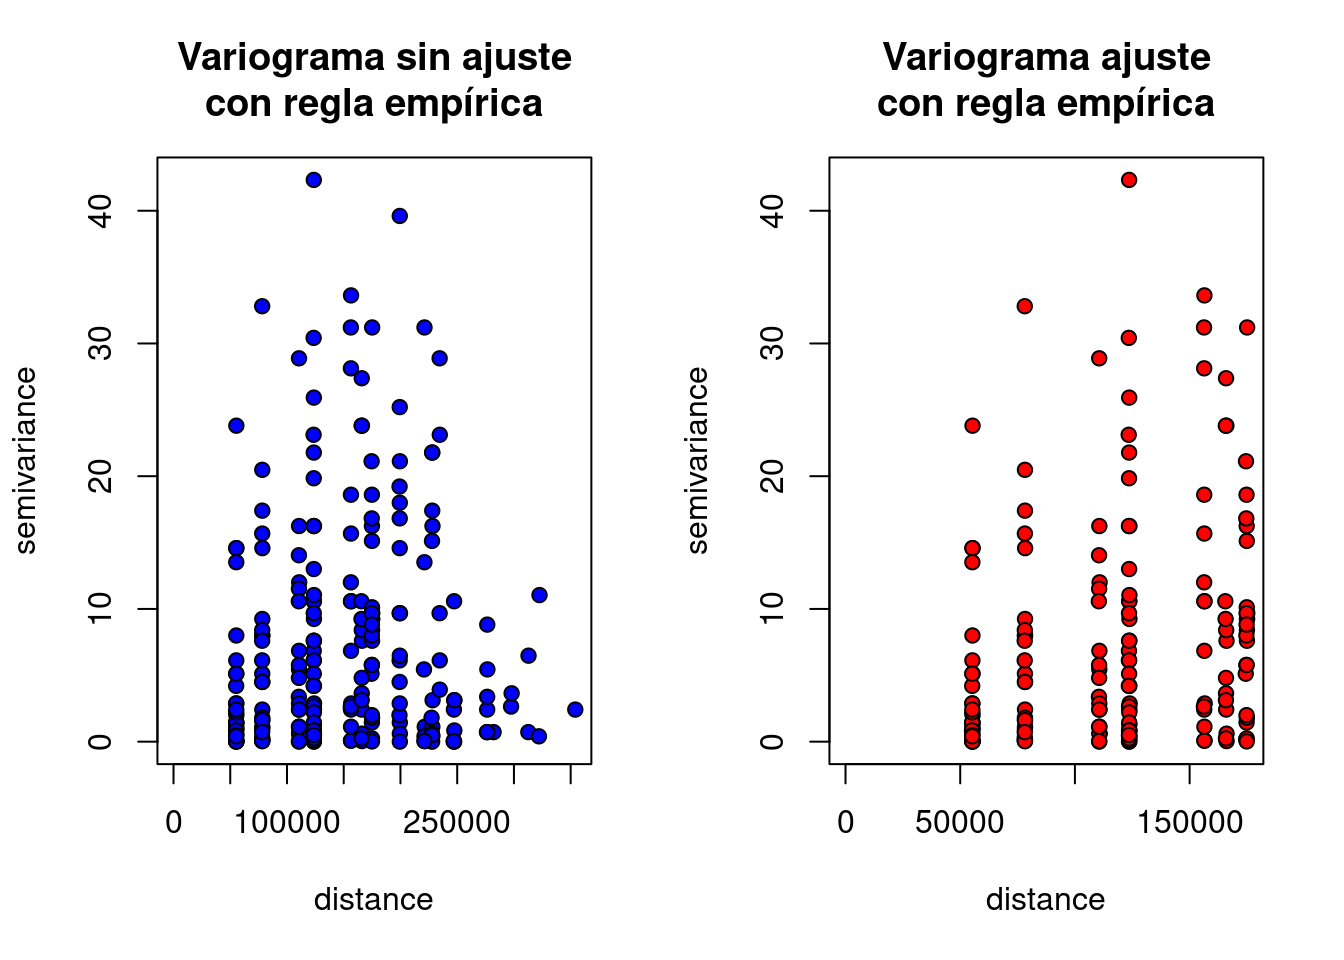
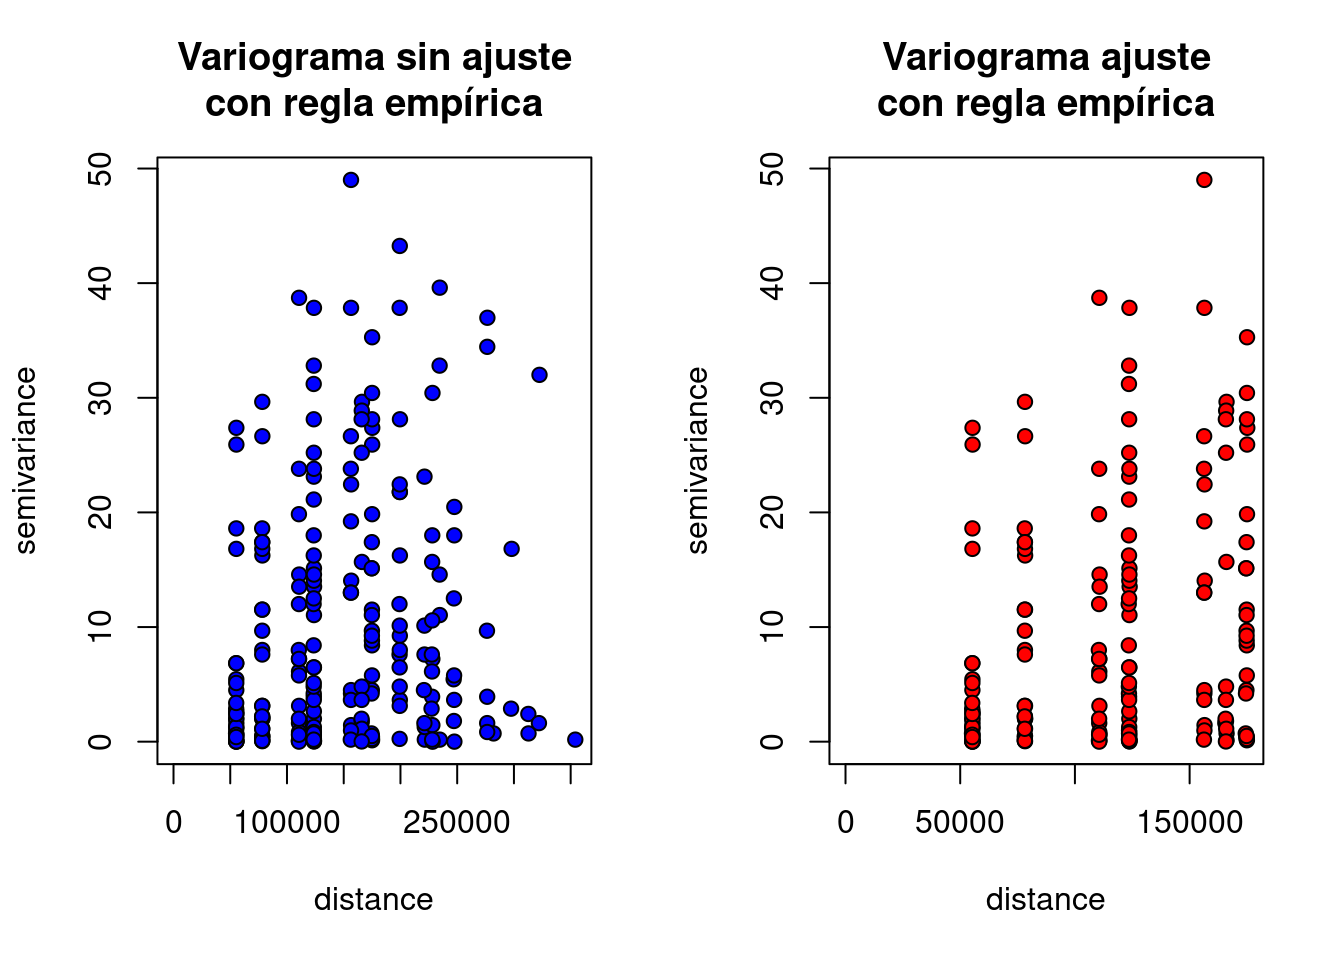
Built site for gh-pages

diff --git a/index.html b/index.html
@@ -398,16 +398,16 @@ data:  df2$`Temp max`
 W = 0.90931, p-value = 0.04583</code></pre>
 </div>
 </div>
-<p>Dado que el valor p es de 4.955e-05, es tiene que la temperatura máxima en Antioquia registrada el 10 de Enero del 2019 no distribuye normal.</p>
+<p>Dado que el valor p es de 0.04583, es tiene que la temperatura máxima en Antioquia registrada el 10 de Enero del 2019 no distribuye normal.</p>
 <p>Ahora probamos con otra fecha para observar si los datos realmente en todas sus fechas no se acomodan a una distribución normal.</p>
 <section id="otros-datos" class="level3">
 <h3 class="anchored" data-anchor-id="otros-datos">Otros datos</h3>
-<p>Suponga los datos de otra fecha (<em>2019-03-10</em>) para la temperatura máxima.</p>
+<p>Suponga los datos de otra fecha (<em>2019-10-21</em>) para la temperatura máxima.</p>
 <p><strong>Gráfico descriptivo para observar estructura espacial:</strong></p>
 <div class="cell">
 <details open="">
 <summary>Código</summary>
-<div class="sourceCode cell-code" id="cb17"><pre class="sourceCode r code-with-copy"><code class="sourceCode r"><span id="cb17-1"><a href="#cb17-1" aria-hidden="true" tabindex="-1"></a>dt <span class="ot">&lt;-</span> dt0 <span class="sc">%&gt;%</span> <span class="fu">filter</span>(date <span class="sc">==</span> <span class="st">"2019-03-10"</span>) <span class="sc">%&gt;%</span> <span class="fu">na.omit</span>()</span>
+<div class="sourceCode cell-code" id="cb17"><pre class="sourceCode r code-with-copy"><code class="sourceCode r"><span id="cb17-1"><a href="#cb17-1" aria-hidden="true" tabindex="-1"></a>dt <span class="ot">&lt;-</span> dt0 <span class="sc">%&gt;%</span> <span class="fu">filter</span>(date <span class="sc">==</span> <span class="st">"2019-10-21"</span>) <span class="sc">%&gt;%</span> <span class="fu">na.omit</span>()</span>
 <span id="cb17-2"><a href="#cb17-2" aria-hidden="true" tabindex="-1"></a>dt <span class="ot">&lt;-</span> dt[<span class="sc">-</span><span class="fu">c</span>(<span class="dv">12</span>, <span class="dv">10</span>, <span class="dv">11</span>, <span class="dv">17</span>, <span class="dv">28</span>, <span class="dv">31</span>, <span class="dv">29</span>, <span class="dv">4</span>, <span class="dv">1</span>),]</span>
 <span id="cb17-3"><a href="#cb17-3" aria-hidden="true" tabindex="-1"></a></span>
 <span id="cb17-4"><a href="#cb17-4" aria-hidden="true" tabindex="-1"></a>datos <span class="ot">&lt;-</span> <span class="fu">as.matrix</span>(<span class="fu">data.frame</span>(<span class="at">x=</span><span class="fu">as.numeric</span>(dt<span class="sc">$</span>long),</span>
@@ -469,7 +469,7 @@ W = 0.90931, p-value = 0.04583</code></pre>
     Shapiro-Wilk normality test
 
 data:  df$`Temp max`
-W = 0.94793, p-value = 0.2872</code></pre>
+W = 0.92992, p-value = 0.1222</code></pre>
 </div>
 </div>
 <p>Al realizar la misma prueba de hipótesis sobre la variable de temperatura máxima pero de otra fecha se tienen datos normales.</p>
@@ -507,9 +507,9 @@ W = 0.94793, p-value = 0.2872</code></pre>
 <span id="cb23-7"><a href="#cb23-7" aria-hidden="true" tabindex="-1"></a></span>
 <span id="cb23-8"><a href="#cb23-8" aria-hidden="true" tabindex="-1"></a><span class="fu">par</span>(<span class="at">mfrow =</span> <span class="fu">c</span>(<span class="dv">1</span>,<span class="dv">2</span>))</span>
 <span id="cb23-9"><a href="#cb23-9" aria-hidden="true" tabindex="-1"></a></span>
-<span id="cb23-10"><a href="#cb23-10" aria-hidden="true" tabindex="-1"></a><span class="co"># (2019-03-10) [Normal]</span></span>
+<span id="cb23-10"><a href="#cb23-10" aria-hidden="true" tabindex="-1"></a><span class="co"># (2019-10-21) [Normal]</span></span>
 <span id="cb23-11"><a href="#cb23-11" aria-hidden="true" tabindex="-1"></a><span class="fu">plot</span>(<span class="at">x =</span> datosmatriz1<span class="sc">$</span>distancia1, <span class="at">y =</span> datosmatriz1<span class="sc">$</span>dif.prof,</span>
-<span id="cb23-12"><a href="#cb23-12" aria-hidden="true" tabindex="-1"></a>     <span class="at">main =</span> <span class="st">"2019-03-10 (Normal)"</span>, <span class="at">ylab =</span> <span class="st">"Diferencia en temperatura"</span>,</span>
+<span id="cb23-12"><a href="#cb23-12" aria-hidden="true" tabindex="-1"></a>     <span class="at">main =</span> <span class="st">"2019-10-21 (Normal)"</span>, <span class="at">ylab =</span> <span class="st">"Diferencia en temperatura"</span>,</span>
 <span id="cb23-13"><a href="#cb23-13" aria-hidden="true" tabindex="-1"></a>     <span class="at">xlab =</span> <span class="st">"Distancia (m)"</span>)</span>
 <span id="cb23-14"><a href="#cb23-14" aria-hidden="true" tabindex="-1"></a><span class="fu">abline</span>(<span class="fu">lm</span>(dif.prof<span class="sc">~</span>distancia1, <span class="at">data =</span> datosmatriz1), <span class="at">lwd =</span> <span class="dv">2</span>,</span>
 <span id="cb23-15"><a href="#cb23-15" aria-hidden="true" tabindex="-1"></a>       <span class="at">col =</span> <span class="st">"red"</span>)</span>
@@ -545,12 +545,12 @@ Mantel statistic based on Pearson's product-moment correlation
 Call:
 mantel(xdis = distancia1, ydis = dif.temp1, na.rm = T) 
 
-Mantel statistic r: 0.06296 
-      Significance: 0.222 
+Mantel statistic r: 0.1496 
+      Significance: 0.042 
 
 Upper quantiles of permutations (null model):
   90%   95% 97.5%   99% 
-0.109 0.150 0.177 0.198 
+0.104 0.140 0.178 0.219 
 Permutation: free
 Number of permutations: 999</code></pre>
 </div>
@@ -565,14 +565,14 @@ Number of permutations: 999</code></pre>
 <pre><code>Monte-Carlo test
 Call: mantelnoneuclid(m1 = m1, m2 = m2, nrepet = nrepet)
 
-Observation: 0.06296223 
+Observation: 0.1496266 
 
 Based on 999 replicates
-Simulated p-value: 0.24 
+Simulated p-value: 0.042 
 Alternative hypothesis: greater 
 
-    Std.Obs Expectation    Variance 
-0.678696134 0.002057063 0.008052997 </code></pre>
+     Std.Obs  Expectation     Variance 
+1.8241208422 0.0002735359 0.0067037993 </code></pre>
 </div>
 </div>
 <p>Con el test de Mantel se prueba que existe autocorrelación espacial; es decir, la temperatura es similar entre unidades geográficas próximas.</p>
@@ -617,8 +617,8 @@ Alternative hypothesis: greater
  1.396905205 -0.001539747  0.005133160 </code></pre>
 </div>
 </div>
-<p>Lamentablemente, en las dos fechas no se cumple el test de mantel, por lo cual se dice que para el día 2019-01-10 existe evidencia para <strong>no</strong> autocorrelación espacial.</p>
-<p>La hipótesis de autocorrelación espacial se vio afectada por la desviación ligera de normalidad, entonces se procede a trabajar con los datos del 2019-03-10 y se analizará la temperatura máxima (si es posible también la mínima) en antioquia para la fecha seleccionada.</p>
+<p>Lamentablemente, en las dos pruebas no se cumple el test de mantel, por lo cual se dice que para el día 2019-01-10 existe evidencia para <strong>no</strong> autocorrelación espacial.</p>
+<p>La hipótesis de autocorrelación espacial se vio afectada por la desviación ligera de normalidad, entonces se procede a trabajar con los datos del 2019-10-21 y se analizará la temperatura máxima (si es posible también la mínima) en antioquia para la fecha seleccionada.</p>
 <p>Ahora se procede a extraer empíricamente la distancia máxima para los semivariogramas.</p>
 <div class="cell">
 <details open="">
@@ -704,7 +704,7 @@ Alternative hypothesis: greater
 <span id="cb44-4"><a href="#cb44-4" aria-hidden="true" tabindex="-1"></a>             <span class="at">ylim =</span> <span class="fu">c</span>(<span class="dv">0</span>,<span class="dv">70</span>))</span></code><button title="Copiar al portapapeles" class="code-copy-button"><i class="bi"></i></button></pre></div>
 </details>
 <div class="cell-output cell-output-stdout">
-<pre><code>Test of spatial independence: p =  0.164 </code></pre>
+<pre><code>Test of spatial independence: p =  0.195 </code></pre>
 </div>
 <div class="cell-output-display">
 <p><img src="trabajo_geoestadistica_files/figure-html/unnamed-chunk-22-1.png" class="img-fluid" width="672"></p>
@@ -874,12 +874,12 @@ xvalid: end of cross-validation</code></pre>
 <div class="sourceCode cell-code" id="cb60"><pre class="sourceCode r code-with-copy"><code class="sourceCode r"><span id="cb60-1"><a href="#cb60-1" aria-hidden="true" tabindex="-1"></a><span class="fu">summary</span>(valid.krigo)</span></code><button title="Copiar al portapapeles" class="code-copy-button"><i class="bi"></i></button></pre></div>
 </details>
 <div class="cell-output cell-output-stdout">
-<pre><code>                Min.    1st Qu.      Median       Mean   3rd Qu.     Max.
-errors     -3.684257 -1.1275513 -0.18260580 0.12663424 1.6905133 3.718993
-std.errors -1.644220 -0.5242532 -0.07610748 0.02665075 0.6940602 1.519078
-                  sd
-errors     1.9718666
-std.errors 0.8537545</code></pre>
+<pre><code>                Min.    1st Qu.      Median      Mean   3rd Qu.     Max.
+errors     -3.675870 -1.0298969 -0.09482950 0.1341619 1.7769295 4.014368
+std.errors -1.796986 -0.5284779 -0.05831335 0.0314131 0.8178424 1.679985
+                 sd
+errors     2.024287
+std.errors 0.951569</code></pre>
 </div>
 </div>
 <div>
@@ -930,6 +930,13 @@ std.errors 0.8537545</code></pre>
 </div>
 </div>
 </div>
+<p>Según los resultados de la validación cruzada, se pueden sacar las siguientes conclusiones:</p>
+<ul>
+<li><p><strong>Sesgo (Mean):</strong> El sesgo promedio es de aproximadamente 0.134, lo que indica que, en promedio, el modelo de kriging ordinario tiende a sobreestimar ligeramente los valores de temperatura.</p></li>
+<li><p><strong>Error cuadrático medio (RMSE, sd):</strong> El error cuadrático medio es de aproximadamente 2.024, lo que indica la discrepancia promedio entre los valores observados y los valores predichos por el modelo. Un RMSE más bajo indica una mejor precisión del modelo.</p></li>
+<li><p><strong>Distribución de errores:</strong> Los errores en la validación cruzada varían desde -3.676 hasta 4.014. Los errores negativos indican que el modelo subestima la temperatura, mientras que los errores positivos indican sobreestimación. El rango y la desviación estándar (sd) de los errores muestran la dispersión de los errores en el conjunto de datos de validación.</p></li>
+</ul>
+<p>En general, los resultados de la validación cruzada indican que el modelo de kriging ordinario tiene cierto sesgo hacia la sobreestimación y muestra una discrepancia promedio de alrededor de 2.024 entre los valores observados y los valores predichos.</p>
 </section>
 </div>
 <div id="tabset-1-2" class="tab-pane" role="tabpanel" aria-labelledby="tabset-1-2-tab">

diff --git a/trabajo_geoestadistica.html b/trabajo_geoestadistica.html
@@ -398,16 +398,16 @@ data:  df2$`Temp max`
 W = 0.90931, p-value = 0.04583</code></pre>
 </div>
 </div>
-<p>Dado que el valor p es de 4.955e-05, es tiene que la temperatura máxima en Antioquia registrada el 10 de Enero del 2019 no distribuye normal.</p>
+<p>Dado que el valor p es de 0.04583, es tiene que la temperatura máxima en Antioquia registrada el 10 de Enero del 2019 no distribuye normal.</p>
 <p>Ahora probamos con otra fecha para observar si los datos realmente en todas sus fechas no se acomodan a una distribución normal.</p>
 <section id="otros-datos" class="level3">
 <h3 class="anchored" data-anchor-id="otros-datos">Otros datos</h3>
-<p>Suponga los datos de otra fecha (<em>2019-03-10</em>) para la temperatura máxima.</p>
+<p>Suponga los datos de otra fecha (<em>2019-10-21</em>) para la temperatura máxima.</p>
 <p><strong>Gráfico descriptivo para observar estructura espacial:</strong></p>
 <div class="cell">
 <details open="">
 <summary>Código</summary>
-<div class="sourceCode cell-code" id="cb17"><pre class="sourceCode r code-with-copy"><code class="sourceCode r"><span id="cb17-1"><a href="#cb17-1" aria-hidden="true" tabindex="-1"></a>dt <span class="ot">&lt;-</span> dt0 <span class="sc">%&gt;%</span> <span class="fu">filter</span>(date <span class="sc">==</span> <span class="st">"2019-03-10"</span>) <span class="sc">%&gt;%</span> <span class="fu">na.omit</span>()</span>
+<div class="sourceCode cell-code" id="cb17"><pre class="sourceCode r code-with-copy"><code class="sourceCode r"><span id="cb17-1"><a href="#cb17-1" aria-hidden="true" tabindex="-1"></a>dt <span class="ot">&lt;-</span> dt0 <span class="sc">%&gt;%</span> <span class="fu">filter</span>(date <span class="sc">==</span> <span class="st">"2019-10-21"</span>) <span class="sc">%&gt;%</span> <span class="fu">na.omit</span>()</span>
 <span id="cb17-2"><a href="#cb17-2" aria-hidden="true" tabindex="-1"></a>dt <span class="ot">&lt;-</span> dt[<span class="sc">-</span><span class="fu">c</span>(<span class="dv">12</span>, <span class="dv">10</span>, <span class="dv">11</span>, <span class="dv">17</span>, <span class="dv">28</span>, <span class="dv">31</span>, <span class="dv">29</span>, <span class="dv">4</span>, <span class="dv">1</span>),]</span>
 <span id="cb17-3"><a href="#cb17-3" aria-hidden="true" tabindex="-1"></a></span>
 <span id="cb17-4"><a href="#cb17-4" aria-hidden="true" tabindex="-1"></a>datos <span class="ot">&lt;-</span> <span class="fu">as.matrix</span>(<span class="fu">data.frame</span>(<span class="at">x=</span><span class="fu">as.numeric</span>(dt<span class="sc">$</span>long),</span>
@@ -469,7 +469,7 @@ W = 0.90931, p-value = 0.04583</code></pre>
     Shapiro-Wilk normality test
 
 data:  df$`Temp max`
-W = 0.94793, p-value = 0.2872</code></pre>
+W = 0.92992, p-value = 0.1222</code></pre>
 </div>
 </div>
 <p>Al realizar la misma prueba de hipótesis sobre la variable de temperatura máxima pero de otra fecha se tienen datos normales.</p>
@@ -507,9 +507,9 @@ W = 0.94793, p-value = 0.2872</code></pre>
 <span id="cb23-7"><a href="#cb23-7" aria-hidden="true" tabindex="-1"></a></span>
 <span id="cb23-8"><a href="#cb23-8" aria-hidden="true" tabindex="-1"></a><span class="fu">par</span>(<span class="at">mfrow =</span> <span class="fu">c</span>(<span class="dv">1</span>,<span class="dv">2</span>))</span>
 <span id="cb23-9"><a href="#cb23-9" aria-hidden="true" tabindex="-1"></a></span>
-<span id="cb23-10"><a href="#cb23-10" aria-hidden="true" tabindex="-1"></a><span class="co"># (2019-03-10) [Normal]</span></span>
+<span id="cb23-10"><a href="#cb23-10" aria-hidden="true" tabindex="-1"></a><span class="co"># (2019-10-21) [Normal]</span></span>
 <span id="cb23-11"><a href="#cb23-11" aria-hidden="true" tabindex="-1"></a><span class="fu">plot</span>(<span class="at">x =</span> datosmatriz1<span class="sc">$</span>distancia1, <span class="at">y =</span> datosmatriz1<span class="sc">$</span>dif.prof,</span>
-<span id="cb23-12"><a href="#cb23-12" aria-hidden="true" tabindex="-1"></a>     <span class="at">main =</span> <span class="st">"2019-03-10 (Normal)"</span>, <span class="at">ylab =</span> <span class="st">"Diferencia en temperatura"</span>,</span>
+<span id="cb23-12"><a href="#cb23-12" aria-hidden="true" tabindex="-1"></a>     <span class="at">main =</span> <span class="st">"2019-10-21 (Normal)"</span>, <span class="at">ylab =</span> <span class="st">"Diferencia en temperatura"</span>,</span>
 <span id="cb23-13"><a href="#cb23-13" aria-hidden="true" tabindex="-1"></a>     <span class="at">xlab =</span> <span class="st">"Distancia (m)"</span>)</span>
 <span id="cb23-14"><a href="#cb23-14" aria-hidden="true" tabindex="-1"></a><span class="fu">abline</span>(<span class="fu">lm</span>(dif.prof<span class="sc">~</span>distancia1, <span class="at">data =</span> datosmatriz1), <span class="at">lwd =</span> <span class="dv">2</span>,</span>
 <span id="cb23-15"><a href="#cb23-15" aria-hidden="true" tabindex="-1"></a>       <span class="at">col =</span> <span class="st">"red"</span>)</span>
@@ -545,12 +545,12 @@ Mantel statistic based on Pearson's product-moment correlation
 Call:
 mantel(xdis = distancia1, ydis = dif.temp1, na.rm = T) 
 
-Mantel statistic r: 0.06296 
-      Significance: 0.222 
+Mantel statistic r: 0.1496 
+      Significance: 0.042 
 
 Upper quantiles of permutations (null model):
   90%   95% 97.5%   99% 
-0.109 0.150 0.177 0.198 
+0.104 0.140 0.178 0.219 
 Permutation: free
 Number of permutations: 999</code></pre>
 </div>
@@ -565,14 +565,14 @@ Number of permutations: 999</code></pre>
 <pre><code>Monte-Carlo test
 Call: mantelnoneuclid(m1 = m1, m2 = m2, nrepet = nrepet)
 
-Observation: 0.06296223 
+Observation: 0.1496266 
 
 Based on 999 replicates
-Simulated p-value: 0.24 
+Simulated p-value: 0.042 
 Alternative hypothesis: greater 
 
-    Std.Obs Expectation    Variance 
-0.678696134 0.002057063 0.008052997 </code></pre>
+     Std.Obs  Expectation     Variance 
+1.8241208422 0.0002735359 0.0067037993 </code></pre>
 </div>
 </div>
 <p>Con el test de Mantel se prueba que existe autocorrelación espacial; es decir, la temperatura es similar entre unidades geográficas próximas.</p>
@@ -617,8 +617,8 @@ Alternative hypothesis: greater
  1.396905205 -0.001539747  0.005133160 </code></pre>
 </div>
 </div>
-<p>Lamentablemente, en las dos fechas no se cumple el test de mantel, por lo cual se dice que para el día 2019-01-10 existe evidencia para <strong>no</strong> autocorrelación espacial.</p>
-<p>La hipótesis de autocorrelación espacial se vio afectada por la desviación ligera de normalidad, entonces se procede a trabajar con los datos del 2019-03-10 y se analizará la temperatura máxima (si es posible también la mínima) en antioquia para la fecha seleccionada.</p>
+<p>Lamentablemente, en las dos pruebas no se cumple el test de mantel, por lo cual se dice que para el día 2019-01-10 existe evidencia para <strong>no</strong> autocorrelación espacial.</p>
+<p>La hipótesis de autocorrelación espacial se vio afectada por la desviación ligera de normalidad, entonces se procede a trabajar con los datos del 2019-10-21 y se analizará la temperatura máxima (si es posible también la mínima) en antioquia para la fecha seleccionada.</p>
 <p>Ahora se procede a extraer empíricamente la distancia máxima para los semivariogramas.</p>
 <div class="cell">
 <details open="">
@@ -704,7 +704,7 @@ Alternative hypothesis: greater
 <span id="cb44-4"><a href="#cb44-4" aria-hidden="true" tabindex="-1"></a>             <span class="at">ylim =</span> <span class="fu">c</span>(<span class="dv">0</span>,<span class="dv">70</span>))</span></code><button title="Copiar al portapapeles" class="code-copy-button"><i class="bi"></i></button></pre></div>
 </details>
 <div class="cell-output cell-output-stdout">
-<pre><code>Test of spatial independence: p =  0.164 </code></pre>
+<pre><code>Test of spatial independence: p =  0.195 </code></pre>
 </div>
 <div class="cell-output-display">
 <p><img src="trabajo_geoestadistica_files/figure-html/unnamed-chunk-22-1.png" class="img-fluid" width="672"></p>
@@ -874,12 +874,12 @@ xvalid: end of cross-validation</code></pre>
 <div class="sourceCode cell-code" id="cb60"><pre class="sourceCode r code-with-copy"><code class="sourceCode r"><span id="cb60-1"><a href="#cb60-1" aria-hidden="true" tabindex="-1"></a><span class="fu">summary</span>(valid.krigo)</span></code><button title="Copiar al portapapeles" class="code-copy-button"><i class="bi"></i></button></pre></div>
 </details>
 <div class="cell-output cell-output-stdout">
-<pre><code>                Min.    1st Qu.      Median       Mean   3rd Qu.     Max.
-errors     -3.684257 -1.1275513 -0.18260580 0.12663424 1.6905133 3.718993
-std.errors -1.644220 -0.5242532 -0.07610748 0.02665075 0.6940602 1.519078
-                  sd
-errors     1.9718666
-std.errors 0.8537545</code></pre>
+<pre><code>                Min.    1st Qu.      Median      Mean   3rd Qu.     Max.
+errors     -3.675870 -1.0298969 -0.09482950 0.1341619 1.7769295 4.014368
+std.errors -1.796986 -0.5284779 -0.05831335 0.0314131 0.8178424 1.679985
+                 sd
+errors     2.024287
+std.errors 0.951569</code></pre>
 </div>
 </div>
 <div>
@@ -930,6 +930,13 @@ std.errors 0.8537545</code></pre>
 </div>
 </div>
 </div>
+<p>Según los resultados de la validación cruzada, se pueden sacar las siguientes conclusiones:</p>
+<ul>
+<li><p><strong>Sesgo (Mean):</strong> El sesgo promedio es de aproximadamente 0.134, lo que indica que, en promedio, el modelo de kriging ordinario tiende a sobreestimar ligeramente los valores de temperatura.</p></li>
+<li><p><strong>Error cuadrático medio (RMSE, sd):</strong> El error cuadrático medio es de aproximadamente 2.024, lo que indica la discrepancia promedio entre los valores observados y los valores predichos por el modelo. Un RMSE más bajo indica una mejor precisión del modelo.</p></li>
+<li><p><strong>Distribución de errores:</strong> Los errores en la validación cruzada varían desde -3.676 hasta 4.014. Los errores negativos indican que el modelo subestima la temperatura, mientras que los errores positivos indican sobreestimación. El rango y la desviación estándar (sd) de los errores muestran la dispersión de los errores en el conjunto de datos de validación.</p></li>
+</ul>
+<p>En general, los resultados de la validación cruzada indican que el modelo de kriging ordinario tiene cierto sesgo hacia la sobreestimación y muestra una discrepancia promedio de alrededor de 2.024 entre los valores observados y los valores predichos.</p>
 </section>
 </div>
 <div id="tabset-1-2" class="tab-pane" role="tabpanel" aria-labelledby="tabset-1-2-tab">
